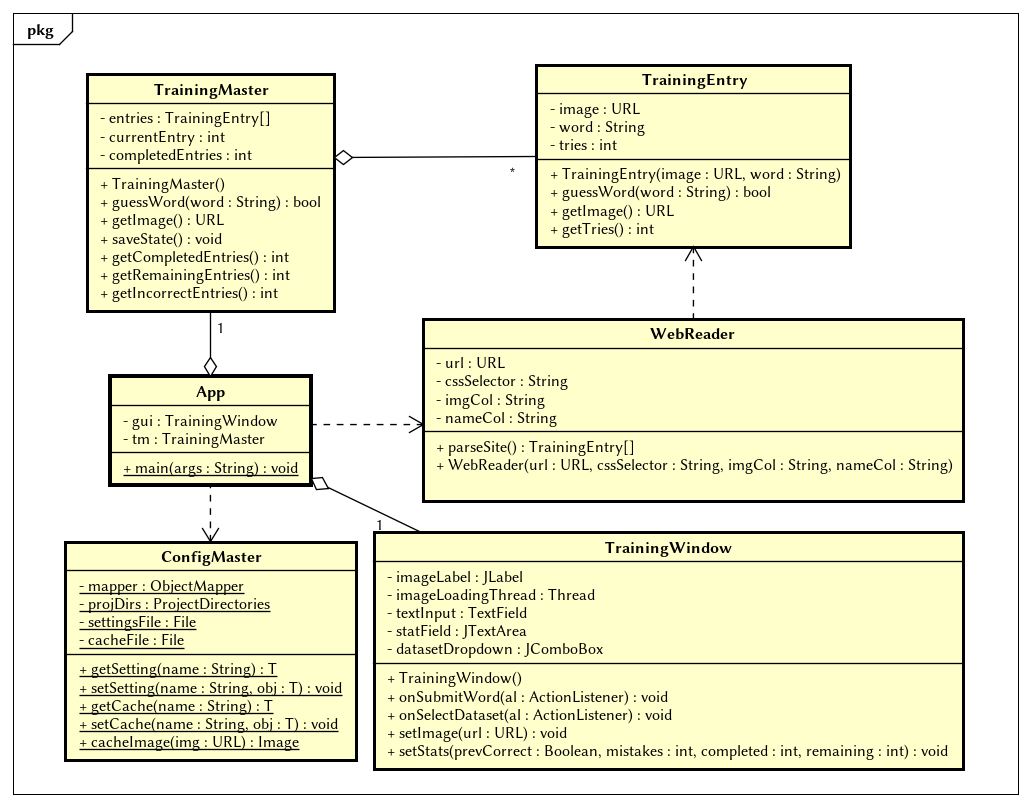
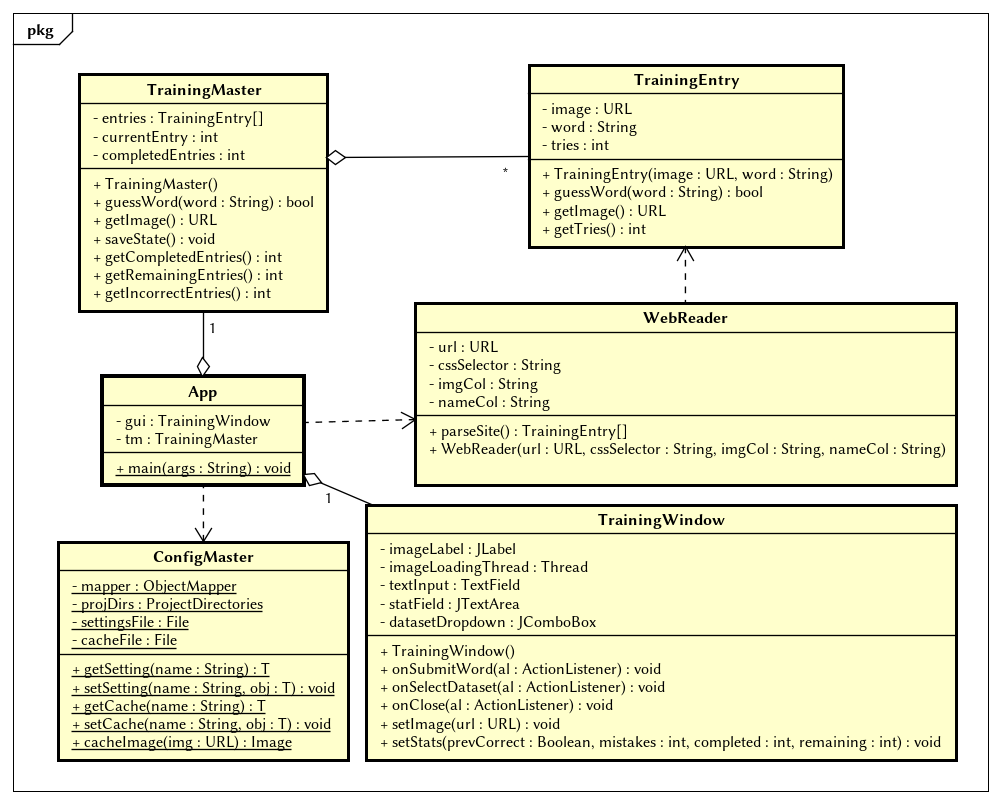
rewrote some UI handling mildly

diff --git a/app/src/main/java/worttrainer/TrainingWindow.java b/app/src/main/java/worttrainer/TrainingWindow.java
@@ -1,40 +1,70 @@
 package worttrainer;
 
 import javax.swing.ImageIcon;
+import javax.swing.JComboBox;
+import javax.swing.JFrame;
 import javax.swing.JLabel;
 import javax.swing.JPanel;
 import javax.swing.JTextArea;
 import javax.swing.SwingConstants;
 
-import java.awt.BorderLayout;
-import java.awt.Image;
-import java.awt.MediaTracker;
+import java.awt.GridBagConstraints;
+import java.awt.GridBagLayout;
+import java.awt.Insets;
 import java.awt.TextField;
 import java.awt.event.ActionListener;
+import java.awt.event.WindowAdapter;
+import java.awt.event.WindowEvent;
 import java.io.IOException;
 import java.net.URL;
+import java.util.function.Consumer;
 
-public class TrainingWindow extends JPanel {
+public class TrainingWindow extends JFrame{
 	private JLabel imageLabel;
 	private Thread imageLoadingThread;
 	private TextField textInput;
+	private JComboBox<String> datasetDropdown;
 	private JTextArea statField;
 
 	public TrainingWindow() {
-		this.setLayout(new BorderLayout());
+		super("WortTrainer");
+		
+		JPanel panel = new JPanel(new GridBagLayout());
+		GridBagConstraints c = new GridBagConstraints();
+		c.fill = GridBagConstraints.BOTH;
+		c.insets = new Insets(2,2,2,2);
 
 		this.imageLoadingThread = null;
 		this.imageLabel = new JLabel("Initializing…", SwingConstants.CENTER);
-		this.add(this.imageLabel, BorderLayout.CENTER);
 
 		this.textInput = new TextField();
-		this.add(this.textInput, BorderLayout.NORTH);
+		
+		this.datasetDropdown = new JComboBox<String>();
 
 		this.statField = new JTextArea();
 		this.statField.setEditable(false);
-		this.add(this.statField, BorderLayout.WEST);
 
 		this.setStats(null, 0, 0, 0);
+		
+		c.gridx=0;
+		c.gridy=0;
+		panel.add(this.datasetDropdown,c.clone());
+		c.gridx=1;
+		c.gridy=0;
+		panel.add(this.textInput,c.clone());
+		c.gridx=0;
+		c.gridy=1;
+		panel.add(this.statField,c.clone());
+		c.gridx=1;
+		c.gridy=1;
+		c.weightx = 1;
+		c.weighty = 1;
+		panel.add(this.imageLabel,c.clone());
+		
+		this.setDefaultCloseOperation(JFrame.EXIT_ON_CLOSE);
+		this.add(panel);
+		this.pack();
+		this.setVisible(true);
 
 		this.onSubmitWord(e -> textInput.setText(""));
 	}
@@ -46,6 +76,17 @@ public class TrainingWindow extends JPanel {
 	 */
 	public void onSubmitWord(ActionListener al) {
 		this.textInput.addActionListener(al);
+	}
+	
+	public void onClose(Consumer<WindowEvent> al){
+		this.addWindowListener(
+			new WindowAdapter() {
+				@Override
+				public void windowClosing(WindowEvent event) {
+					al.accept(event);
+				}
+			}
+		);
 	}
 
 	/**
@@ -63,8 +104,6 @@ public class TrainingWindow extends JPanel {
 		this.imageLabel.setIcon(null);
 		this.imageLabel.setText("Loading…");
 
-		// TODO: image cache
-
 		// creating a new thread to load, scale and display the image
 		this.imageLoadingThread = new Thread() {
 			public void run() {
@@ -74,13 +113,7 @@ public class TrainingWindow extends JPanel {
 				} catch (IOException e) {
 					throw new RuntimeException(e);
 				}
-				// TODO: scale to what the container needs
-				// int width = (int)(icon.getIconWidth() * (250.0 / icon.getIconHeight())); //
-				// (250 / height) → scaling factor
-				// image = image.getScaledInstance(width, 250, Image.SCALE_SMOOTH); // skalieren
-				// auf gewünschte Größe
-				// ImageIcon ii = new ImageIcon(image);
-				imageLabel.setIcon(icon); // anzeigen in einem JLabel
+				imageLabel.setIcon(icon);
 				imageLabel.setText("");
 			}
 		};

diff --git a/app/src/main/java/worttrainer/App.java b/app/src/main/java/worttrainer/App.java
@@ -1,11 +1,7 @@
 package worttrainer;
 
-import java.awt.event.WindowAdapter;
-import java.awt.event.WindowEvent;
 import java.io.IOException;
 import java.util.Map;
-
-import javax.swing.JFrame;
 
 import com.fasterxml.jackson.core.type.TypeReference;
 
@@ -28,26 +24,16 @@ public class App {
 		}
 
 		this.gui = new TrainingWindow();
-
-		JFrame frame = new JFrame("WortTrainer");
-		frame.setDefaultCloseOperation(JFrame.EXIT_ON_CLOSE);
-		frame.add(this.gui);
-		frame.pack();
-		frame.setVisible(true);
-
 		this.updateGUI(null);
 
-		this.gui.onSubmitWord(e -> {
-			this.updateGUI(tm.guessWord(e.getActionCommand()));
+		this.gui.onSubmitWord(event -> {
+			this.updateGUI(tm.guessWord(event.getActionCommand()));
 		});
-		frame.addWindowListener(new WindowAdapter() {
-			@Override
-			public void windowClosing(WindowEvent event) {
-				try {
-					ConfigMaster.setCache("session", tm);
-				} catch (IOException e) {
-					throw new RuntimeException(e);
-				}
+		this.gui.onClose(event -> {
+			try {
+				ConfigMaster.setCache("session", tm);
+			} catch (IOException e) {
+				throw new RuntimeException(e);
 			}
 		});
 	}
